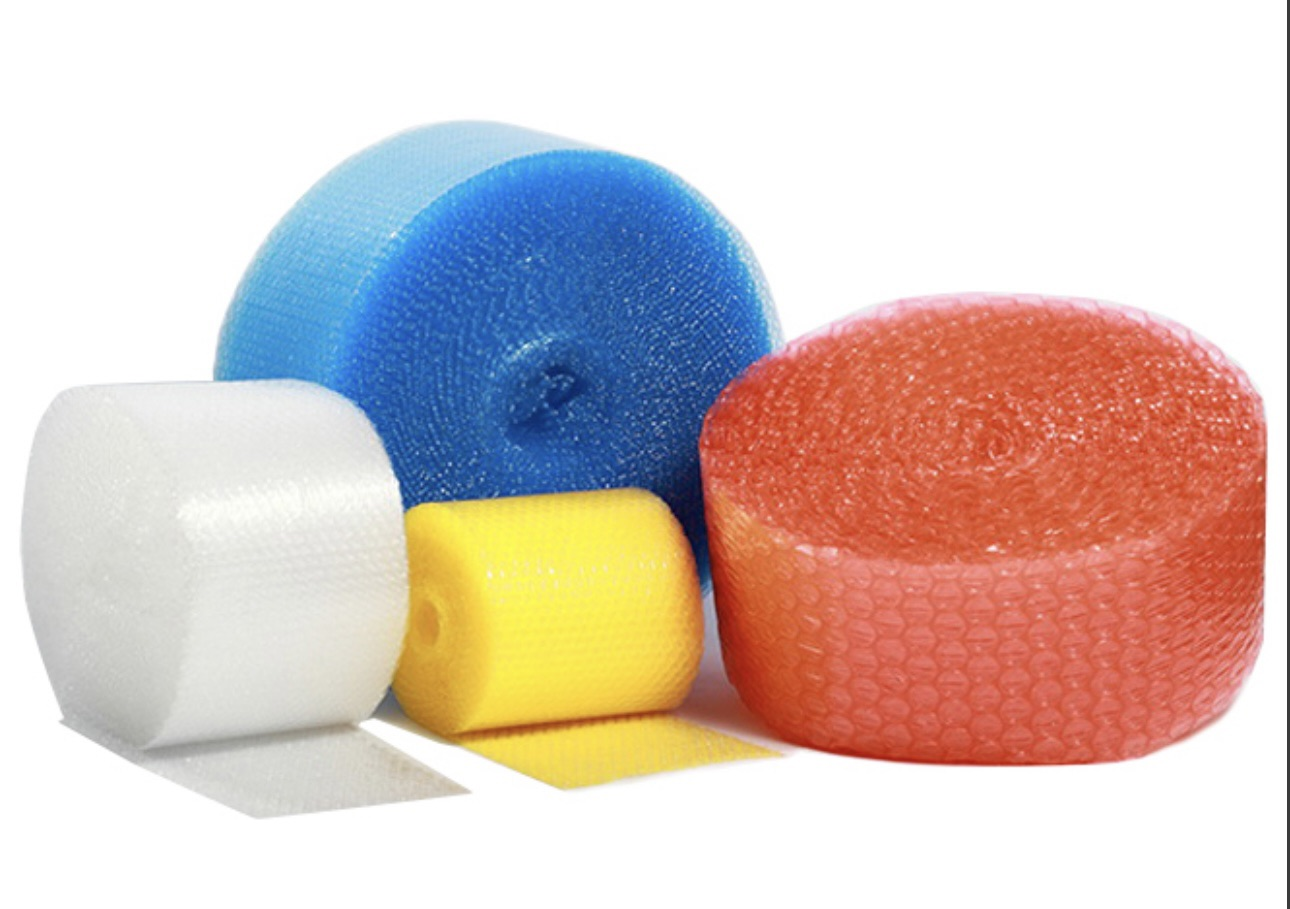
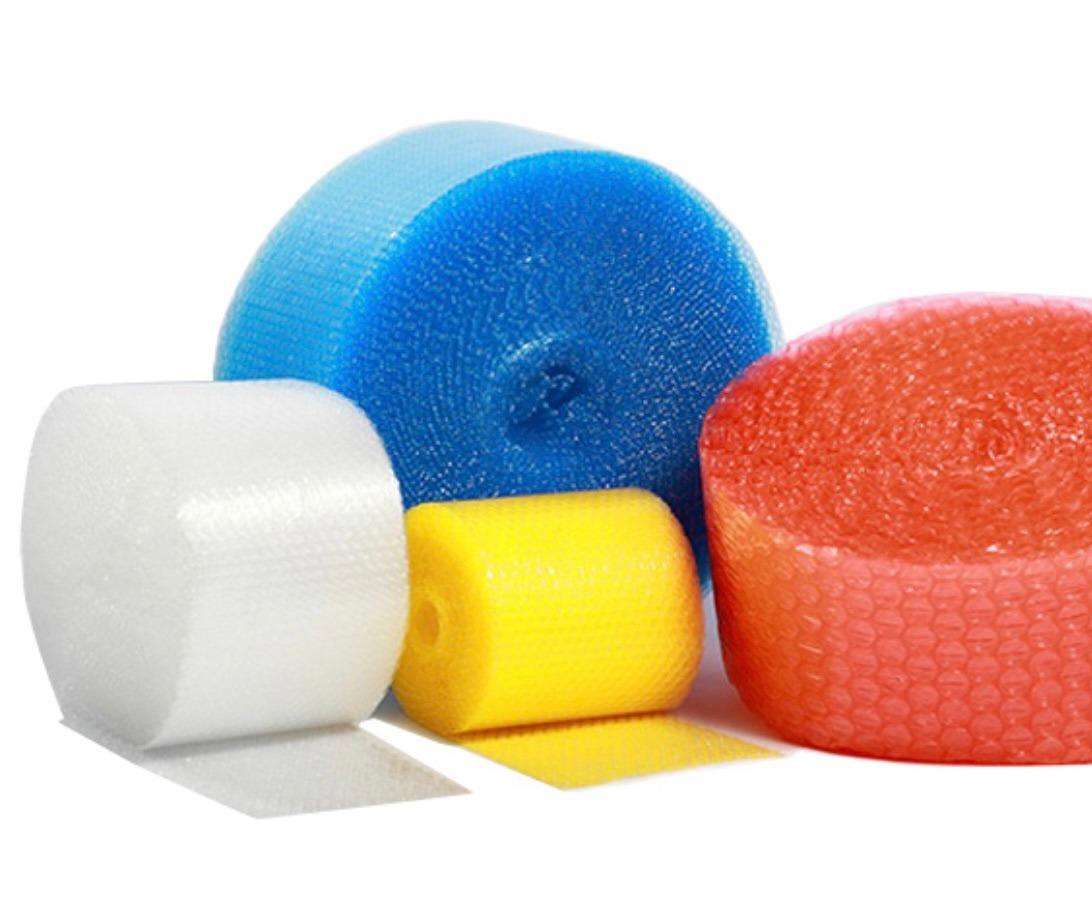
Blend product photos into the page surface
- Studio shots on white now render with mix-blend-multiply on cards, galleries, category headers and the marquee, so the photo's backdrop merges with the white surface instead of sitting on it as a grey rectangle
- Trimmed a stray vertical rule from the air-bubble roll photo and cropped excess backdrop from the anti-static bags shot
- Bags photo (blue studio backdrop) is listed in darkBackdropPhotos and framed on forest-950 instead of being blended, so it reads as intentional

diff --git a/src/app/[locale]/page.tsx b/src/app/[locale]/page.tsx
@@ -3,7 +3,7 @@ import Image from "next/image";
 import { getTranslations, setRequestLocale } from "next-intl/server";
 import { Link } from "@/i18n/navigation";
 import type { Locale } from "@/i18n/routing";
-import { productCategories } from "@/data/products";
+import { darkBackdropPhotos, productCategories } from "@/data/products";
 import { yearsInBusiness } from "@/data/company";
 import ProductCard from "@/components/ProductCard";
 import Reveal from "@/components/Reveal";
@@ -145,13 +145,19 @@ export default async function HomePage({
                     tabIndex={half === 1 ? -1 : undefined}
                     className="group shrink-0 rounded-[20px] border border-slate-200/80 bg-white p-2 shadow-sm transition hover:border-forest-300 hover:shadow-md"
                   >
-                    <span className="relative block h-44 w-64 overflow-hidden rounded-2xl bg-white sm:h-52 sm:w-80">
+                    <span
+                      className={`relative block h-44 w-64 overflow-hidden rounded-2xl sm:h-52 sm:w-80 ${
+                        darkBackdropPhotos.has(item.image) ? "bg-forest-950" : "bg-white"
+                      }`}
+                    >
                       <Image
                         src={item.image}
                         alt={item.name}
                         fill
                         sizes="20rem"
-                        className="object-contain p-2 transition duration-500 group-hover:scale-105"
+                        className={`object-contain p-2 transition duration-500 group-hover:scale-105 ${
+                          darkBackdropPhotos.has(item.image) ? "" : "mix-blend-multiply"
+                        }`}
                       />
                       <span className="absolute inset-x-0 bottom-0 bg-gradient-to-t from-forest-950/80 to-transparent px-3 pb-2 pt-6 text-left text-[11px] font-bold text-white">
                         {item.name}

diff --git a/src/components/ProductGallery.tsx b/src/components/ProductGallery.tsx
@@ -2,6 +2,7 @@
 
 import Image from "next/image";
 import { useCallback, useEffect, useRef, useState } from "react";
+import { darkBackdropPhotos } from "@/data/products";
 
 // Auto-advancing, swipeable photo carousel. Reusable for any category.
 export default function ProductGallery({
@@ -60,18 +61,24 @@ export default function ProductGallery({
             className="flex h-full transition-transform duration-700 ease-[cubic-bezier(.22,.8,.25,1)]"
             style={{ transform: `translateX(-${idx * 100}%)` }}
           >
-            {images.map((src, i) => (
-              <div key={src} className="relative h-full w-full shrink-0">
-                <Image
-                  src={src}
-                  alt={`${alt} ${i + 1}`}
-                  fill
-                  sizes="(max-width: 768px) 100vw, 48rem"
-                  className="object-contain"
-                  priority={i === 0}
-                />
-              </div>
-            ))}
+            {images.map((src, i) => {
+              const dark = darkBackdropPhotos.has(src);
+              return (
+                <div
+                  key={src}
+                  className={`relative h-full w-full shrink-0 ${dark ? "bg-forest-950" : ""}`}
+                >
+                  <Image
+                    src={src}
+                    alt={`${alt} ${i + 1}`}
+                    fill
+                    sizes="(max-width: 768px) 100vw, 48rem"
+                    className={`object-contain ${dark ? "" : "mix-blend-multiply"}`}
+                    priority={i === 0}
+                  />
+                </div>
+              );
+            })}
           </div>
         </div>
       </div>

diff --git a/src/components/ProductCard.tsx b/src/components/ProductCard.tsx
@@ -21,7 +21,11 @@ export default function ProductCard({
       <div className="p-3 pb-0">
         <div
           className={`relative h-48 overflow-hidden rounded-xl ring-1 ring-slate-100 ${
-            category.isPhoto ? "bg-white" : `bg-gradient-to-br ${category.accent}`
+            category.isPhoto
+              ? category.darkPhoto
+                ? "bg-forest-950"
+                : "bg-white"
+              : `bg-gradient-to-br ${category.accent}`
           }`}
         >
           {category.isPhoto ? (
@@ -30,7 +34,9 @@ export default function ProductCard({
               alt={category.name[locale]}
               fill
               sizes="(max-width: 640px) 100vw, (max-width: 1024px) 50vw, 33vw"
-              className="object-contain p-2 transition duration-500 group-hover:scale-105"
+              className={`object-contain p-2 transition duration-500 group-hover:scale-105 ${
+                category.darkPhoto ? "" : "mix-blend-multiply"
+              }`}
             />
           ) : (
             <Image

diff --git a/src/data/products.ts b/src/data/products.ts
@@ -14,6 +14,9 @@ export interface ProductCategory {
   slug: string;
   image: string;
   isPhoto?: boolean; // true = real photo (cover crop), false/absent = illustration
+  // Photo shot on a dark backdrop — keep it inside a dark frame instead of
+  // blending it into the white card surface.
+  darkPhoto?: boolean;
   // Carousel photos; missing files are filtered out at render time, so drop
   // images into public/ under these paths and they appear automatically.
   gallery?: string[];
@@ -602,6 +605,12 @@ export const productCategories: ProductCategory[] = [
     },
   },
 ];
+
+// Photos shot on a dark studio backdrop — rendered inside a dark frame instead
+// of being blended into a white card.
+export const darkBackdropPhotos = new Set([
+  "/photos/bubble/bubble-bags-antistatic.jpg",
+]);
 
 export function getCategory(slug: string) {
   return productCategories.find((c) => c.slug === slug);

diff --git a/src/app/[locale]/products/[category]/page.tsx b/src/app/[locale]/products/[category]/page.tsx
@@ -117,7 +117,11 @@ export default async function CategoryPage({
                     alt={cat.name[l]}
                     fill
                     sizes="(max-width: 1024px) 100vw, 40vw"
-                    className={cat.isPhoto ? "object-contain p-3" : "object-contain p-8"}
+                    className={
+                      cat.isPhoto
+                        ? `object-contain p-3 ${cat.darkPhoto ? "" : "mix-blend-multiply"}`
+                        : "object-contain p-8"
+                    }
                     priority
                   />
                 </div>
